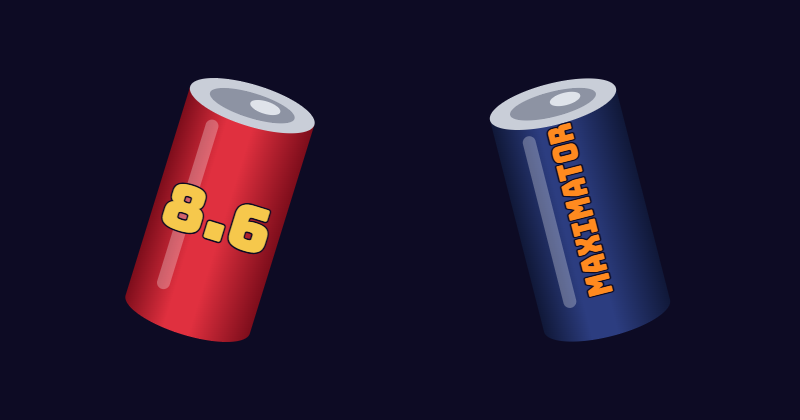
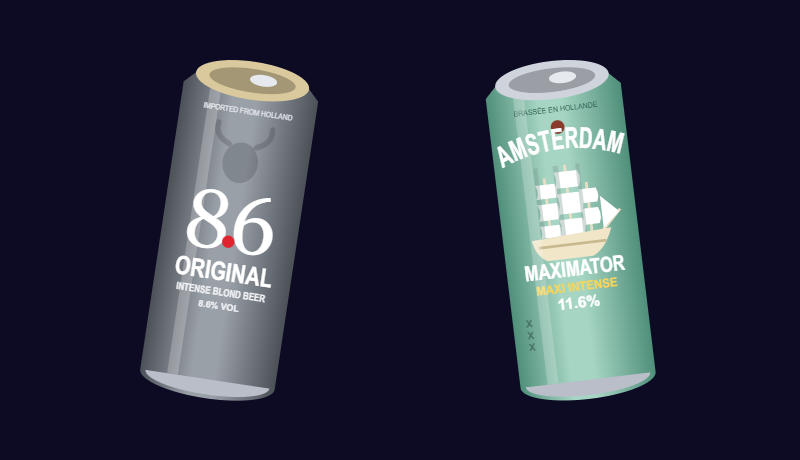
Étoiles filantes : vraies canettes redessinées (8.6 Original grise, Amsterdam Maximator vert d'eau avec son voilier), un peu plus grandes

Changed region(s): [[0.5938, 0.1238, 0.8438, 0.8976], [0.1562, 0.1238, 0.4062, 0.8976]]

diff --git a/public/js/app/planets.js b/public/js/app/planets.js
@@ -310,54 +310,182 @@ export const BODIES = [
   { draw: rock, x: 0.24, r: 0.05 }
 ];
 
+const SANS = "Arial, Helvetica, sans-serif";
+
 const CANS = {
-  "86": { light: "#e0303f", dark: "#7d0d1b", text: "#f6c84c", label: "8.6", size: 0.24 },
-  maxi: { light: "#2c3d80", dark: "#101838", text: "#ff8a1f", label: "MAXIMATOR", size: 0.13, vertical: true }
+  "86": { edge: "#4c5158", mid: "#9aa0a8", lid: "#d9c99c", decor: eightSix },
+  maxi: { edge: "#4f8f7a", mid: "#a6d5c3", lid: "#cfd4dc", decor: maximator }
 };
 
 export const CAN_KINDS = Object.keys(CANS);
 
-export function drawCan(ctx, kind, s) {
-  const K = CANS[kind], w = s * 0.5, h = s, e = w * 0.16;
-  const g = ctx.createLinearGradient(-w / 2, 0, w / 2, 0);
-  g.addColorStop(0, K.dark);
-  g.addColorStop(0.35, K.light);
-  g.addColorStop(0.55, K.light);
-  g.addColorStop(1, K.dark);
-  ctx.fillStyle = g;
+function label(ctx, text, y, size, color, max, weight = "bold") {
+  ctx.font = weight + " " + size + "px " + SANS;
+  ctx.fillStyle = color;
+  ctx.fillText(text, 0, y, max);
+}
+
+function arcText(ctx, text, y, r, size, max) {
+  ctx.font = "bold " + size + "px " + SANS;
+  const widths = [...text].map((ch) => ctx.measureText(ch).width);
+  const squeeze = Math.min(1, max / widths.reduce((a, b) => a + b, 0));
+  let a = -(widths.reduce((s, x) => s + x, 0) * squeeze) / (2 * r);
+  [...text].forEach((ch, i) => {
+    const mid = a + (widths[i] * squeeze) / (2 * r);
+    ctx.save();
+    ctx.translate(Math.sin(mid) * r, y + r - Math.cos(mid) * r);
+    ctx.rotate(mid);
+    ctx.scale(squeeze, 1);
+    ctx.fillText(ch, 0, 0);
+    ctx.restore();
+    a += (widths[i] * squeeze) / r;
+  });
+}
+
+function eightSix(ctx, w, h) {
+  ctx.fillStyle = "rgba(40, 44, 50, 0.22)";
   ctx.beginPath();
-  ctx.moveTo(-w / 2, -h / 2 + e);
-  ctx.lineTo(-w / 2, h / 2 - e);
-  ctx.ellipse(0, h / 2 - e, w / 2, e, 0, Math.PI, 0, true);
-  ctx.lineTo(w / 2, -h / 2 + e);
+  ctx.ellipse(0, -h * 0.2, w * 0.13, w * 0.15, 0, 0, TAU);
+  ctx.fill();
+  ctx.strokeStyle = "rgba(40, 44, 50, 0.22)";
+  ctx.lineWidth = w * 0.04;
+  ctx.lineCap = "round";
+  for (const s of [-1, 1]) {
+    ctx.beginPath();
+    ctx.moveTo(s * w * 0.1, -h * 0.25);
+    ctx.quadraticCurveTo(s * w * 0.22, -h * 0.27, s * w * 0.2, -h * 0.31);
+    ctx.stroke();
+  }
+  ctx.textAlign = "center";
+  ctx.textBaseline = "alphabetic";
+  ctx.font = h * 0.24 + "px Georgia, 'Times New Roman', serif";
+  ctx.fillStyle = "#ffffff";
+  ctx.fillText("8", -w * 0.17, h * 0.06, w * 0.34);
+  ctx.fillText("6", w * 0.17, h * 0.06, w * 0.34);
+  ctx.fillStyle = "#e0242f";
+  ctx.beginPath();
+  ctx.arc(0, h * 0.035, w * 0.045, 0, TAU);
+  ctx.fill();
+  label(ctx, "ORIGINAL", h * 0.15, h * 0.075, "#ffffff", w * 0.72);
+  label(ctx, "INTENSE BLOND BEER", h * 0.195, h * 0.03, "#eef0f3", w * 0.66);
+  label(ctx, "8.6% VOL", h * 0.235, h * 0.026, "#eef0f3", w * 0.4);
+  label(ctx, "IMPORTED FROM HOLLAND", -h * 0.345, h * 0.022, "#e3e6ea", w * 0.66, "normal");
+}
+
+function sail(ctx, x, y0, y1, half) {
+  const b = (y1 - y0) * 0.25;
+  ctx.beginPath();
+  ctx.moveTo(x - half, y0);
+  ctx.lineTo(x + half, y0);
+  ctx.quadraticCurveTo(x + half + b, (y0 + y1) / 2, x + half, y1);
+  ctx.lineTo(x - half, y1);
+  ctx.quadraticCurveTo(x - half + b, (y0 + y1) / 2, x - half, y0);
   ctx.closePath();
   ctx.fill();
-  ctx.fillStyle = "#c9ced8";
+}
+
+function ship(ctx, w, cy) {
+  ctx.save();
+  ctx.translate(0, cy);
+  ctx.scale(w, w);
+  ctx.strokeStyle = "#e9dfc6";
+  ctx.lineWidth = 0.025;
+  for (const [x, top] of [[-0.18, -0.5], [0.02, -0.6], [0.2, -0.42]]) {
+    ctx.beginPath();
+    ctx.moveTo(x, 0.1);
+    ctx.lineTo(x, top);
+    ctx.stroke();
+  }
   ctx.beginPath();
-  ctx.ellipse(0, -h / 2 + e, w / 2, e, 0, 0, TAU);
+  ctx.moveTo(0.3, 0.04);
+  ctx.lineTo(0.48, -0.14);
+  ctx.stroke();
+  ctx.fillStyle = "#ffffff";
+  for (const [x, half, rows] of [[-0.18, 0.09, [[-0.44, -0.31], [-0.26, -0.11], [-0.06, 0.05]]], [0.02, 0.11, [[-0.54, -0.39], [-0.34, -0.15], [-0.1, 0.05]]], [0.2, 0.08, [[-0.36, -0.23], [-0.18, -0.03]]]]) {
+    for (const [y0, y1] of rows) sail(ctx, x, y0, y1, half);
+  }
+  ctx.beginPath();
+  ctx.moveTo(0.31, 0.02);
+  ctx.lineTo(0.47, -0.12);
+  ctx.lineTo(0.31, -0.28);
+  ctx.closePath();
   ctx.fill();
-  ctx.fillStyle = "#8d93a3";
+  ctx.fillStyle = "rgba(120, 150, 140, 0.35)";
+  for (const [x, half] of [[-0.18, 0.09], [0.02, 0.11], [0.2, 0.08]]) {
+    ctx.fillRect(x - half, -0.6, half * 0.45, 0.66);
+  }
+  ctx.fillStyle = "#f1e6c8";
   ctx.beginPath();
-  ctx.ellipse(0, -h / 2 + e, w * 0.34, e * 0.6, 0, 0, TAU);
+  ctx.moveTo(-0.36, 0.06);
+  ctx.lineTo(0.38, 0.02);
+  ctx.quadraticCurveTo(0.3, 0.22, 0.18, 0.26);
+  ctx.lineTo(-0.24, 0.26);
+  ctx.quadraticCurveTo(-0.34, 0.2, -0.36, 0.06);
+  ctx.closePath();
   ctx.fill();
-  ctx.fillStyle = "#dfe3ea";
+  ctx.fillStyle = "#c9b98f";
+  ctx.fillRect(-0.3, 0.12, 0.62, 0.025);
+  ctx.restore();
+}
+
+function maximator(ctx, w, h) {
+  ctx.textAlign = "center";
+  ctx.textBaseline = "alphabetic";
+  label(ctx, "BRASSÉE EN HOLLANDE", -h * 0.35, h * 0.022, "#2f5f50", w * 0.62, "normal");
+  ctx.fillStyle = "#8a3a2a";
   ctx.beginPath();
-  ctx.ellipse(w * 0.1, -h / 2 + e * 0.9, w * 0.12, e * 0.3, 0, 0, TAU);
+  ctx.arc(0, -h * 0.318, w * 0.045, 0, TAU);
   ctx.fill();
-  ctx.fillStyle = "rgba(255, 255, 255, 0.28)";
+  ctx.fillStyle = "#ffffff";
+  arcText(ctx, "AMSTERDAM", -h * 0.24, w * 1.1, h * 0.085, w * 0.9);
+  ship(ctx, w * 0.8, 0);
+  label(ctx, "MAXIMATOR", h * 0.135, h * 0.062, "#ffffff", w * 0.74);
+  label(ctx, "MAXI INTENSE", h * 0.18, h * 0.036, "#f6d55c", w * 0.6);
+  label(ctx, "11.6%", h * 0.23, h * 0.045, "#ffffff", w * 0.4);
+  ctx.fillStyle = "rgba(40, 70, 60, 0.55)";
+  ctx.font = "bold " + h * 0.03 + "px " + SANS;
+  for (let i = 0; i < 3; i++) ctx.fillText("X", -w * 0.38, h * 0.27 + i * h * 0.035);
+}
+
+export function drawCan(ctx, kind, s) {
+  const K = CANS[kind], h = s, w = s * 0.4, e = w * 0.14, neck = w * 0.08, top = -h / 2 + e + neck;
+  ctx.save();
+  const g = ctx.createLinearGradient(-w / 2, 0, w / 2, 0);
+  g.addColorStop(0, K.edge);
+  g.addColorStop(0.38, K.mid);
+  g.addColorStop(0.55, K.mid);
+  g.addColorStop(1, K.edge);
+  ctx.fillStyle = g;
   ctx.beginPath();
-  rr(ctx, -w * 0.3, -h / 2 + e * 2.2, w * 0.1, h - e * 4, w * 0.05);
+  ctx.moveTo(-w / 2, top);
+  ctx.lineTo(-w / 2, h / 2 - e);
+  ctx.ellipse(0, h / 2 - e, w / 2, e, 0, Math.PI, 0, true);
+  ctx.lineTo(w / 2, top);
+  ctx.lineTo(w * 0.42, -h / 2 + e);
+  ctx.lineTo(-w * 0.42, -h / 2 + e);
+  ctx.closePath();
   ctx.fill();
   ctx.save();
-  ctx.fillStyle = K.text;
-  ctx.strokeStyle = INK;
-  ctx.lineWidth = Math.max(1, s * 0.012);
-  ctx.textAlign = "center";
-  ctx.font = K.size * s + 'px Bungee, "Arial Black", sans-serif';
-  if (K.vertical) ctx.rotate(-Math.PI / 2);
-  const m = ctx.measureText(K.label);
-  const max = K.vertical ? h - e * 4 : w * 0.88, y = (m.actualBoundingBoxAscent - m.actualBoundingBoxDescent) / 2 + (K.vertical ? 0 : e * 0.4);
-  ctx.strokeText(K.label, 0, y, max);
-  ctx.fillText(K.label, 0, y, max);
+  ctx.clip();
+  K.decor(ctx, w, h);
+  ctx.fillStyle = "rgba(255, 255, 255, 0.22)";
+  ctx.fillRect(-w * 0.3, top, w * 0.08, h - e * 2 - neck);
+  ctx.restore();
+  ctx.fillStyle = "#b9bec8";
+  ctx.beginPath();
+  ctx.ellipse(0, h / 2 - e, w * 0.46, e * 0.8, 0, 0, Math.PI);
+  ctx.fill();
+  ctx.fillStyle = K.lid;
+  ctx.beginPath();
+  ctx.ellipse(0, -h / 2 + e, w * 0.42, e, 0, 0, TAU);
+  ctx.fill();
+  ctx.fillStyle = "rgba(0, 0, 0, 0.25)";
+  ctx.beginPath();
+  ctx.ellipse(0, -h / 2 + e, w * 0.32, e * 0.62, 0, 0, TAU);
+  ctx.fill();
+  ctx.fillStyle = "#e6e9ee";
+  ctx.beginPath();
+  ctx.ellipse(w * 0.08, -h / 2 + e * 0.92, w * 0.1, e * 0.3, 0, 0, TAU);
+  ctx.fill();
   ctx.restore();
 }

diff --git a/public/js/app/scene.js b/public/js/app/scene.js
@@ -8,7 +8,7 @@ const POP_LIFE = 0.7, PUCK_R = 30, PUCK_LIFT = 110, GRAB_S = 0.6, FIELD_FADE = 5
 const SKY_SPEED = 20, SKY_GAP = 0.5, SKY_TOP = 0.3, SKY_LOOP = SKY_GAP * BODIES.length;
 const HEAT_EASE = 0.7, HEAT_LOW = 0.45, HEAT_FIELD = 0.85;
 const HINT = "Pose ton doigt où tu veux";
-const COMET_S = 7, COMET_SIZE = 0.16, COMET_TAIL = 0.55, COMET_ALPHA = 0.8;
+const COMET_S = 7, COMET_SIZE = 0.2, COMET_TAIL = 0.55, COMET_ALPHA = 0.8;
 const OFTEN = ["127.0.0.1", "localhost"].includes(location.hostname) && new URLSearchParams(location.search).get("etoiles") === "souvent";
 const COMET_FIRST = OFTEN ? [1, 2] : [25, 80], COMET_GAP = OFTEN ? [4, 6] : [60, 150];
 const HEAT_RGB = HEAT.map((c) => [1, 3, 5].map((i) => parseInt(c.slice(i, i + 2), 16)));

diff --git a/README.md b/README.md
@@ -21,7 +21,7 @@ Jeu de soirée du collectif Tartine Sauvage. La tartine-fusée esquive les couve
 - Zones de touche : la tartine est un cercle de 26 px, chaque arme est faite de gélules (`parts` dans `projectiles.js`). « Frôlé » quand la tartine passe à moins de 11 px.
 - Frôlés : « Frôlé x2 », « x3 »… quand ils s'enchaînent à moins de 1,5 s, avec un son plus aigu à chaque cran (6 au plus). Chaque frôlé laisse une entaille dans la croûte, du côté où le couvert est passé (12 au plus). Aucun effet sur le score ni sur la zone de touche.
 - Effets : le chrono flashe en jaune toutes les 10 s, les couverts rapides (dès 380 px/s) laissent une traînée, et le fond passe du bleu nuit au violet vers 40 s puis au rouge sombre à 80 s, au rythme de la vitesse des couverts (`HEAT` dans `palette.js`).
-- Étoile filante : très rarement (première entre 25 et 80 s, puis toutes les 60 à 150 s), une canette de 8.6 ou de Maximator traverse le fond en 7 s avec une traînée dorée, en tournant doucement. Dessinée comme les planètes (sans contour, un peu transparente) pour qu'on ne la prenne pas pour une arme. Canettes dans `planets.js` (`CANS`), passage dans `scene.js` (`COMET_*`). En local, `?etoiles=souvent` la fait passer toutes les 4 à 6 s.
+- Étoile filante : très rarement (première entre 25 et 80 s, puis toutes les 60 à 150 s), une canette traverse le fond en 7 s avec une traînée dorée, en tournant doucement : 8.6 Original (grise, gros 8.6 blanc au point rouge) ou Amsterdam Maximator (vert d'eau, voilier), redessinées d'après les vraies. Dessinée comme les planètes (sans contour, un peu transparente) pour qu'on ne la prenne pas pour une arme. Canettes dans `planets.js` (`CANS`), passage dans `scene.js` (`COMET_*`). En local, `?etoiles=souvent` la fait passer toutes les 4 à 6 s.
 - Mort : le jeu se fige 0,3 s, puis l'éclaboussure. Sous « Tartinée ! », l'arme qui t'a eu (« par un hachoir », « par un couteau au dentifrice ») : `by` dans `PROJECTILES`, `with` dans `SPREADS`.
 - Garnitures : 9 tartinades dessinées sur la tartine (`TOPPINGS` dans `sprites.js`) : confiture, pâte à tartiner, miel et son abeille, ketchup en zigzag, dentifrice rayé, œuf au plat, sardine entière, slime qui a un œil, pâtée pour chien tartinée avec son odeur et sa mouche. Beurre au départ. 1 attaque à couteaux sur 10 a un couteau garni : le frôler ou se faire tuer par lui débloque sa garniture (pas en entraînement). Une garniture gagnée est mise tout de suite. Dès la première, toucher la tartine de l'accueil ouvre des flèches pour changer (une astuce le dit tant qu'on ne l'a pas fait). Gardées sur le téléphone (`cv-garnitures`, `cv-garniture`, `cv-garniture-astuce`), purement visuel. En local, `?garnitures=toutes` dans l'adresse les débloque toutes.
 - Accessoires : 4 dessinés (`HATS` et `sideBoosters` dans `sprites.js`, noms dans `GEAR` de `palette.js`) : boosters sur les côtés comme l'affiche, chapeau de sorcière, bonnet de Noël, chapeau de pirate. Chacun est la récompense d'un succès (champ `gear`) : Dix tartines → bonnet, Croustillante → sorcière, Une minute de gloire → boosters, Dans le top → pirate. Un accessoire gagné est mis tout de suite, même en pleine partie. Choix dans les flèches de la tartine de l'accueil (2e ligne, « Sans accessoire » possible). Gardé sur le téléphone (`cv-accessoire`), purement visuel. En local, `?accessoires=tous` les débloque tous le temps de la page.
